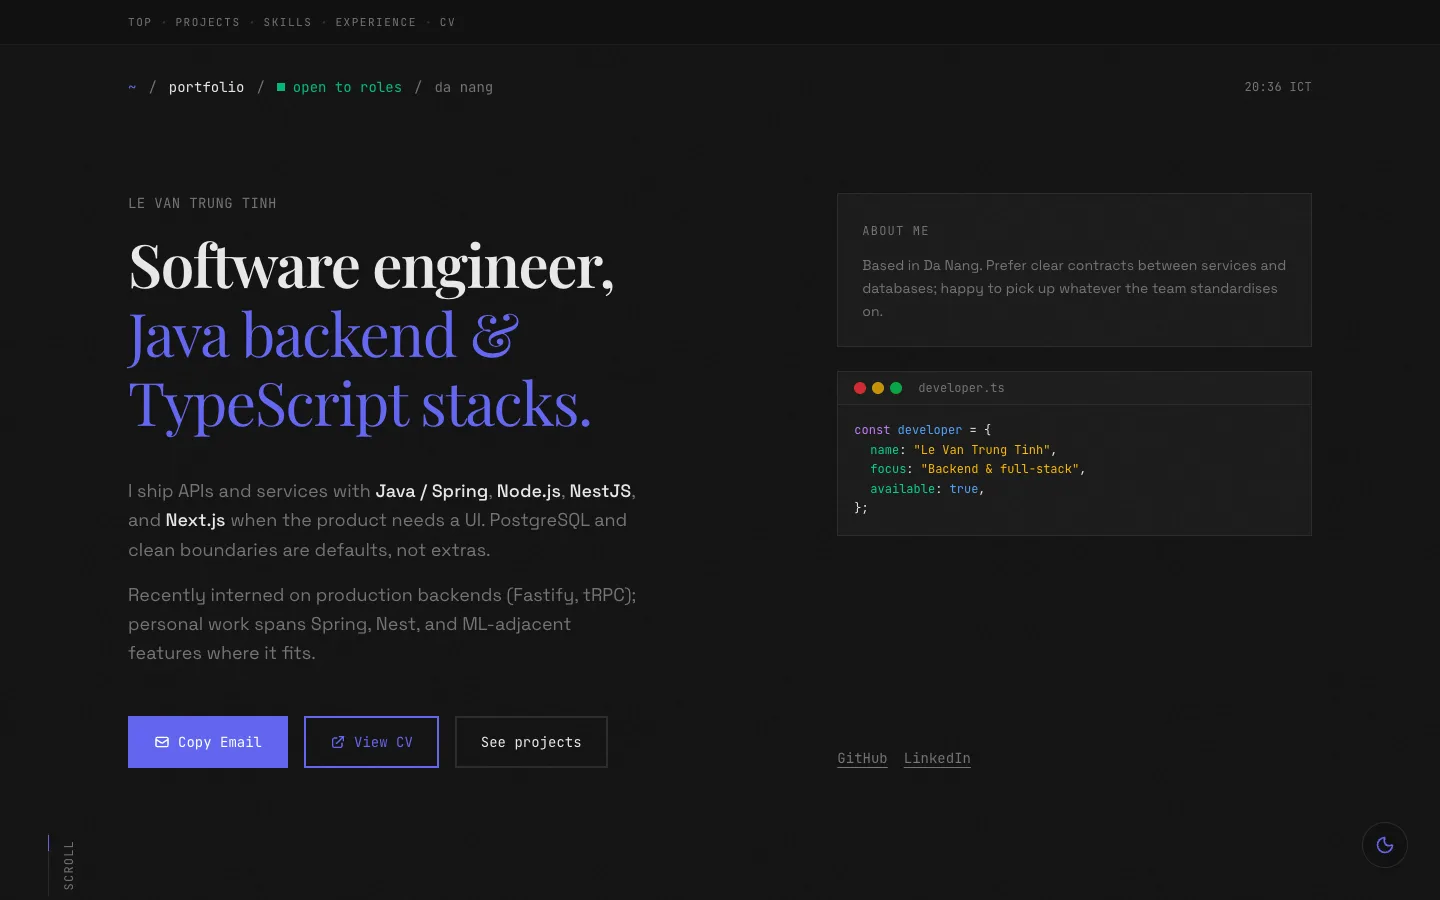
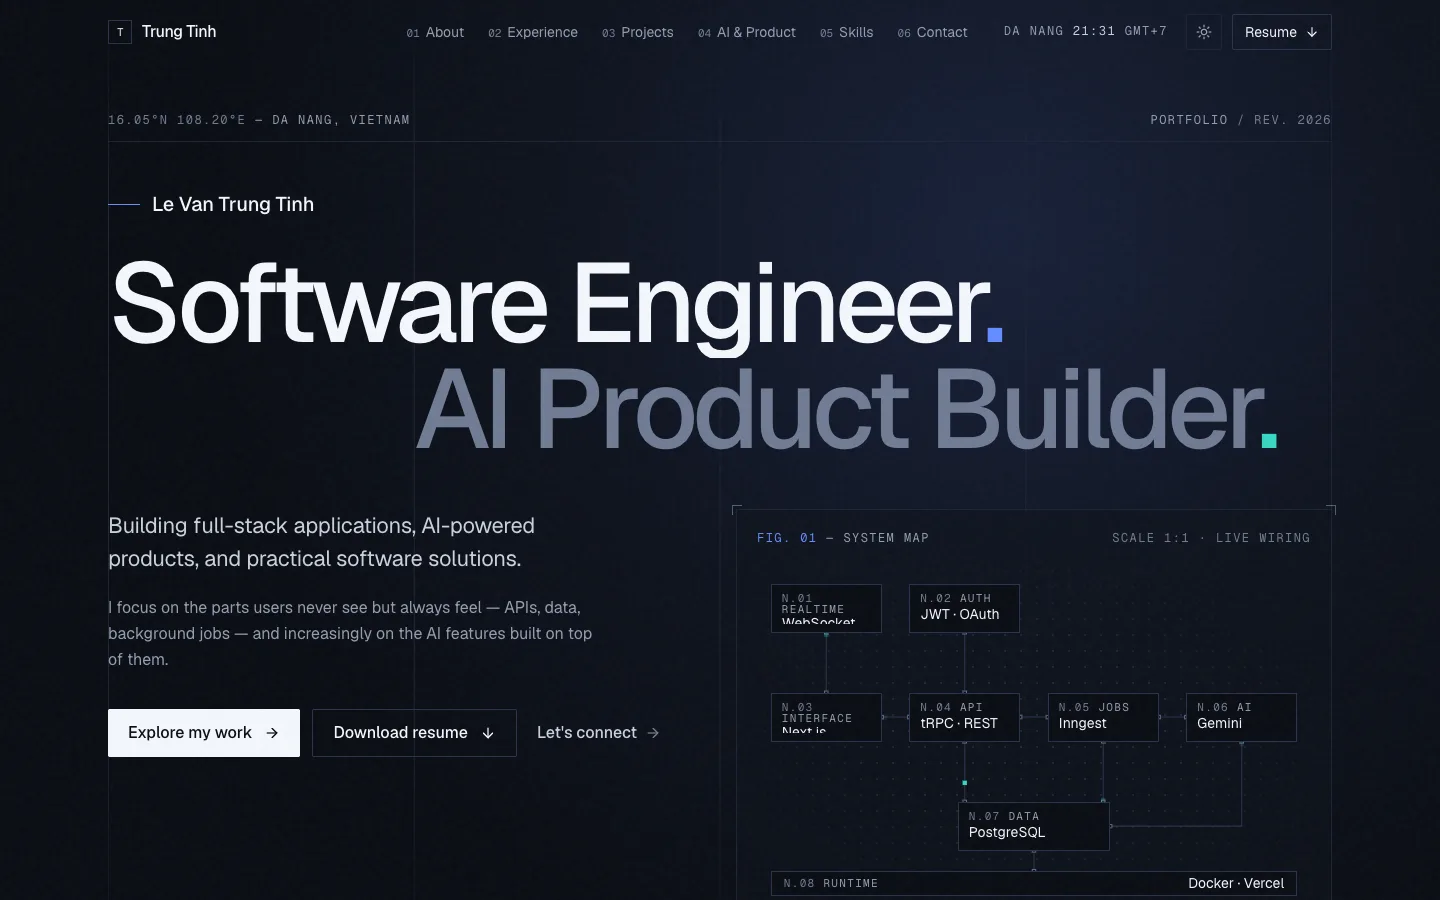
docs: update README for Portfolio 2.0

diff --git a/README.md b/README.md
@@ -1,6 +1,6 @@
 # Trung Tinh — Personal Portfolio
 
-Source code for [trungtinh.site](https://trungtinh.site), the personal portfolio of Lê Văn Trung Tính. It is a single-page Next.js site that presents selected projects, technical skills, and work experience, with a downloadable CV.
+Source code for [trungtinh.site](https://trungtinh.site), the portfolio of Lê Văn Trung Tính, Software Engineer · AI Product Builder. It is a statically generated Next.js site with a home page covering experience, projects, AI work, skills, and achievements, plus a long-form case study page for each featured project.
 
 [![Live site](https://img.shields.io/badge/live-trungtinh.site-5b5bd6?style=flat-square)](https://trungtinh.site)
 ![Next.js](https://img.shields.io/badge/Next.js-16-000000?style=flat-square&logo=nextdotjs)
@@ -10,42 +10,54 @@ Source code for [trungtinh.site](https://trungtinh.site), the personal portfolio
 
 ## Key features
 
-- **Single-page layout** with anchored sections — Hero, Projects, Skills, Experience — and a sticky section navigator (`components/portfolio/section-nav.tsx`).
-- **Project case studies.** Each project row opens an accessible modal (`role="dialog"`, `aria-modal`) with the challenge, solution, features, stack, and links (`components/portfolio/projects.tsx`).
-- **Light and dark themes** via `next-themes`, with a floating toggle (`components/theme-toggle.tsx`).
-- **One-click contact.** "Copy email" uses the Clipboard API; the CV is served as a static PDF from `public/`.
-- **Search-engine ready.** App Router metadata, Open Graph tags, JSON-LD `Person` schema, `sitemap.ts`, and `robots.ts`.
-- **Motion with restraint.** Entrance and in-view transitions with Framer Motion.
+- **Content as data.** Everything shown on the site — profile, experience, projects, case studies, skills, achievements — lives in typed objects in `lib/content.ts`. Updating the portfolio is a data edit, not a layout change.
+- **Home page sections:** Hero with an animated system map, About, Experience, Projects (featured case studies plus an archive list), AI & Product, Skills, Achievements, and Contact (`app/page.tsx`, `components/portfolio/`).
+- **Case study pages.** `/work/[slug]` is statically generated for every featured project with `generateStaticParams`, and includes role, stack, features, challenges, an architecture diagram, and screenshots.
+- **Evidence-linked skills.** Skills and AI capabilities reference the projects or roles where they were actually used, so each claim links to its proof.
+- **Generated social images.** Open Graph images for the home page and each case study are rendered at build time with `next/og` (`app/opengraph-image.tsx`, `app/work/[slug]/opengraph-image.tsx`, `lib/og.tsx`).
+- **SEO.** App Router metadata, per-page canonical URLs, JSON-LD `Person` schema, `sitemap.ts`, and `robots.ts`.
+- **Accessible navigation.** Sticky nav with active-section state (`aria-current`), a mobile menu that closes on Escape, and a custom 404 page.
+- **Motion that respects the user.** Scroll reveals, parallax and scroll-linked text use Framer Motion with `reducedMotion="user"`, and CSS animations are gated behind `prefers-reduced-motion`.
+- **Dark-first theming** with a light-mode toggle (`next-themes`).
 - **Vercel Analytics** for page-view tracking.
+
+![Meet.AI case study page](docs/screenshots/case-study.webp)
 
 ## Tech stack
 
 | Layer | Technology |
 | --- | --- |
-| Framework | Next.js 16 (App Router), React 19 |
-| Language | TypeScript 5 |
+| Framework | Next.js 16 (App Router, static generation), React 19 |
+| Language | TypeScript 5 (type-checked during `next build`) |
 | Styling | Tailwind CSS 4, CSS variables, shadcn/ui (Radix primitives) |
 | Motion | Framer Motion 12 |
-| Fonts | Space Grotesk, JetBrains Mono, Playfair Display (`next/font/google`) |
-| Hosting | Vercel (custom domain `trungtinh.site`) |
+| Fonts | Geist and Geist Mono (`next/font/google`) |
+| Social images | `next/og` (`ImageResponse`) |
+| Hosting | Vercel, custom domain `trungtinh.site` |
 
 ## Project structure
 
 ```text
 app/
-  layout.tsx          Root layout: fonts, metadata, JSON-LD, theme provider, analytics
-  page.tsx            Composes the portfolio sections
-  sitemap.ts          Generated sitemap
-  robots.ts           Crawl rules
+  layout.tsx                 Root layout: fonts, metadata, JSON-LD, providers, analytics
+  page.tsx                   Home page — composes the portfolio sections
+  work/[slug]/page.tsx       Case study page per featured project
+  opengraph-image.tsx        Generated OG image (home); one per case study under work/[slug]/
+  template.tsx               Page fade-in on route change
+  not-found.tsx, sitemap.ts, robots.ts
 components/
-  portfolio/          Page sections: hero, projects, skills, experience, footer, section-nav
-  ui/                 shadcn/ui primitives
-  theme-provider.tsx  next-themes wrapper
-  theme-toggle.tsx    Light/dark switch
-public/               CV (PDF), project screenshots, icons
+  portfolio/                 Sections (hero, about, experience, projects, ai-builder, skills,
+                             achievements, contact) and building blocks (nav, system-map,
+                             architecture-diagram, reveal, parallax-image, primitives)
+  providers.tsx              Theme + motion configuration
+  ui/                        shadcn/ui primitives
+lib/
+  content.ts                 Single source of truth for all site content
+  og.tsx                     Shared Open Graph image renderer
+public/
+  projects/                  Project screenshots (WebP)
+  LeVanTrungTinh_CV.pdf      Downloadable resume
 ```
-
-Content (projects, skills, experience) lives as typed arrays at the top of each section component, so updating the site is a data edit rather than a layout change.
 
 ## Getting started
 
@@ -63,10 +75,14 @@ Open <http://localhost:3000>.
 | Command | Description |
 | --- | --- |
 | `pnpm dev` | Start the development server |
-| `pnpm build` | Create a production build |
+| `pnpm build` | Type-check and create a production build (all pages prerendered) |
 | `pnpm start` | Serve the production build |
 
 No environment variables are required.
+
+### Editing content
+
+Edit `lib/content.ts`. To add a case study, append an entry to `projects` with a unique `slug` and put its screenshots in `public/projects/`. The page, its Open Graph image, and its sitemap entry are generated automatically.
 
 ## Deployment
 
